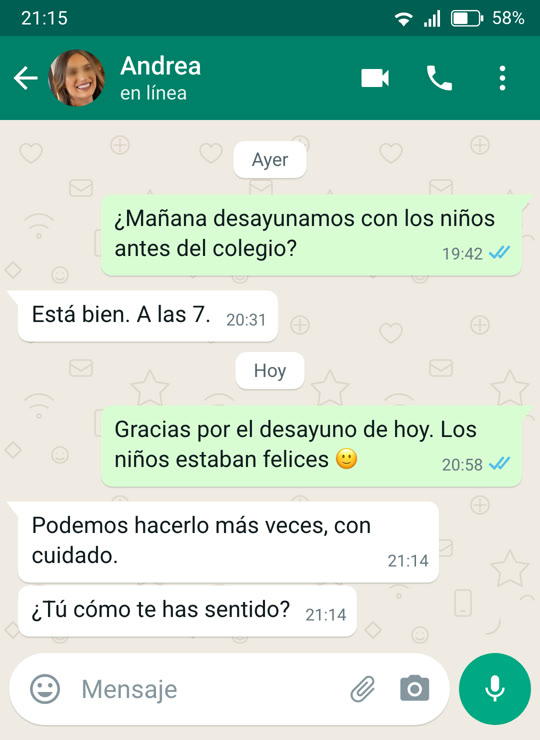
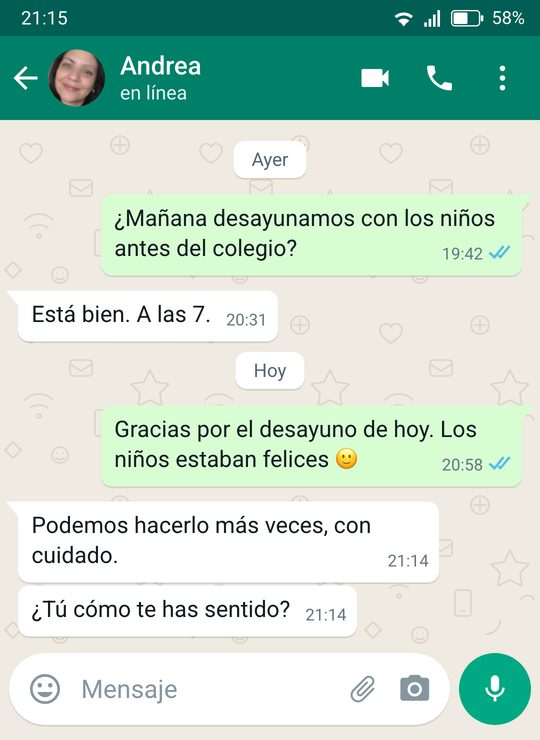
Prints: fotos de perfil novas (olhos borrados) no diagnóstico + 3 prints novos em WhatsApp escuro na oferta (Carolina/Mónica/Verónica)

diff --git a/src/components/PaginaOferta/index.tsx b/src/components/PaginaOferta/index.tsx
@@ -250,7 +250,8 @@ export default function PaginaOferta({
     ];
     const casoKey = casoConOtro ? 'otro' : scenario === 'mismo_techo' ? 'techo' : 'senales';
     const bonosOrdenados = [...bonos.filter(b => b.k === casoKey), ...bonos.filter(b => b.k !== casoKey)];
-    const printPrecio = casoConOtro ? '/img/print-c.jpg' : vivenJuntos ? '/img/print-a.jpg' : '/img/print-b.jpg';
+    // Prints da oferta = WhatsApp escuro, diferentes dos do diagnóstico (Carolina / Mónica / Verónica)
+    const printPrecio = casoConOtro ? '/img/oferta-otro.jpg' : scenario === 'mismo_techo' ? '/img/oferta-casa.jpg' : '/img/oferta-senales.jpg';
     const faqPrimero =
         scenario === 'bloqueo' && !casoConOtro ? 'rafael'
         : casoConOtro ? 'tiago'
